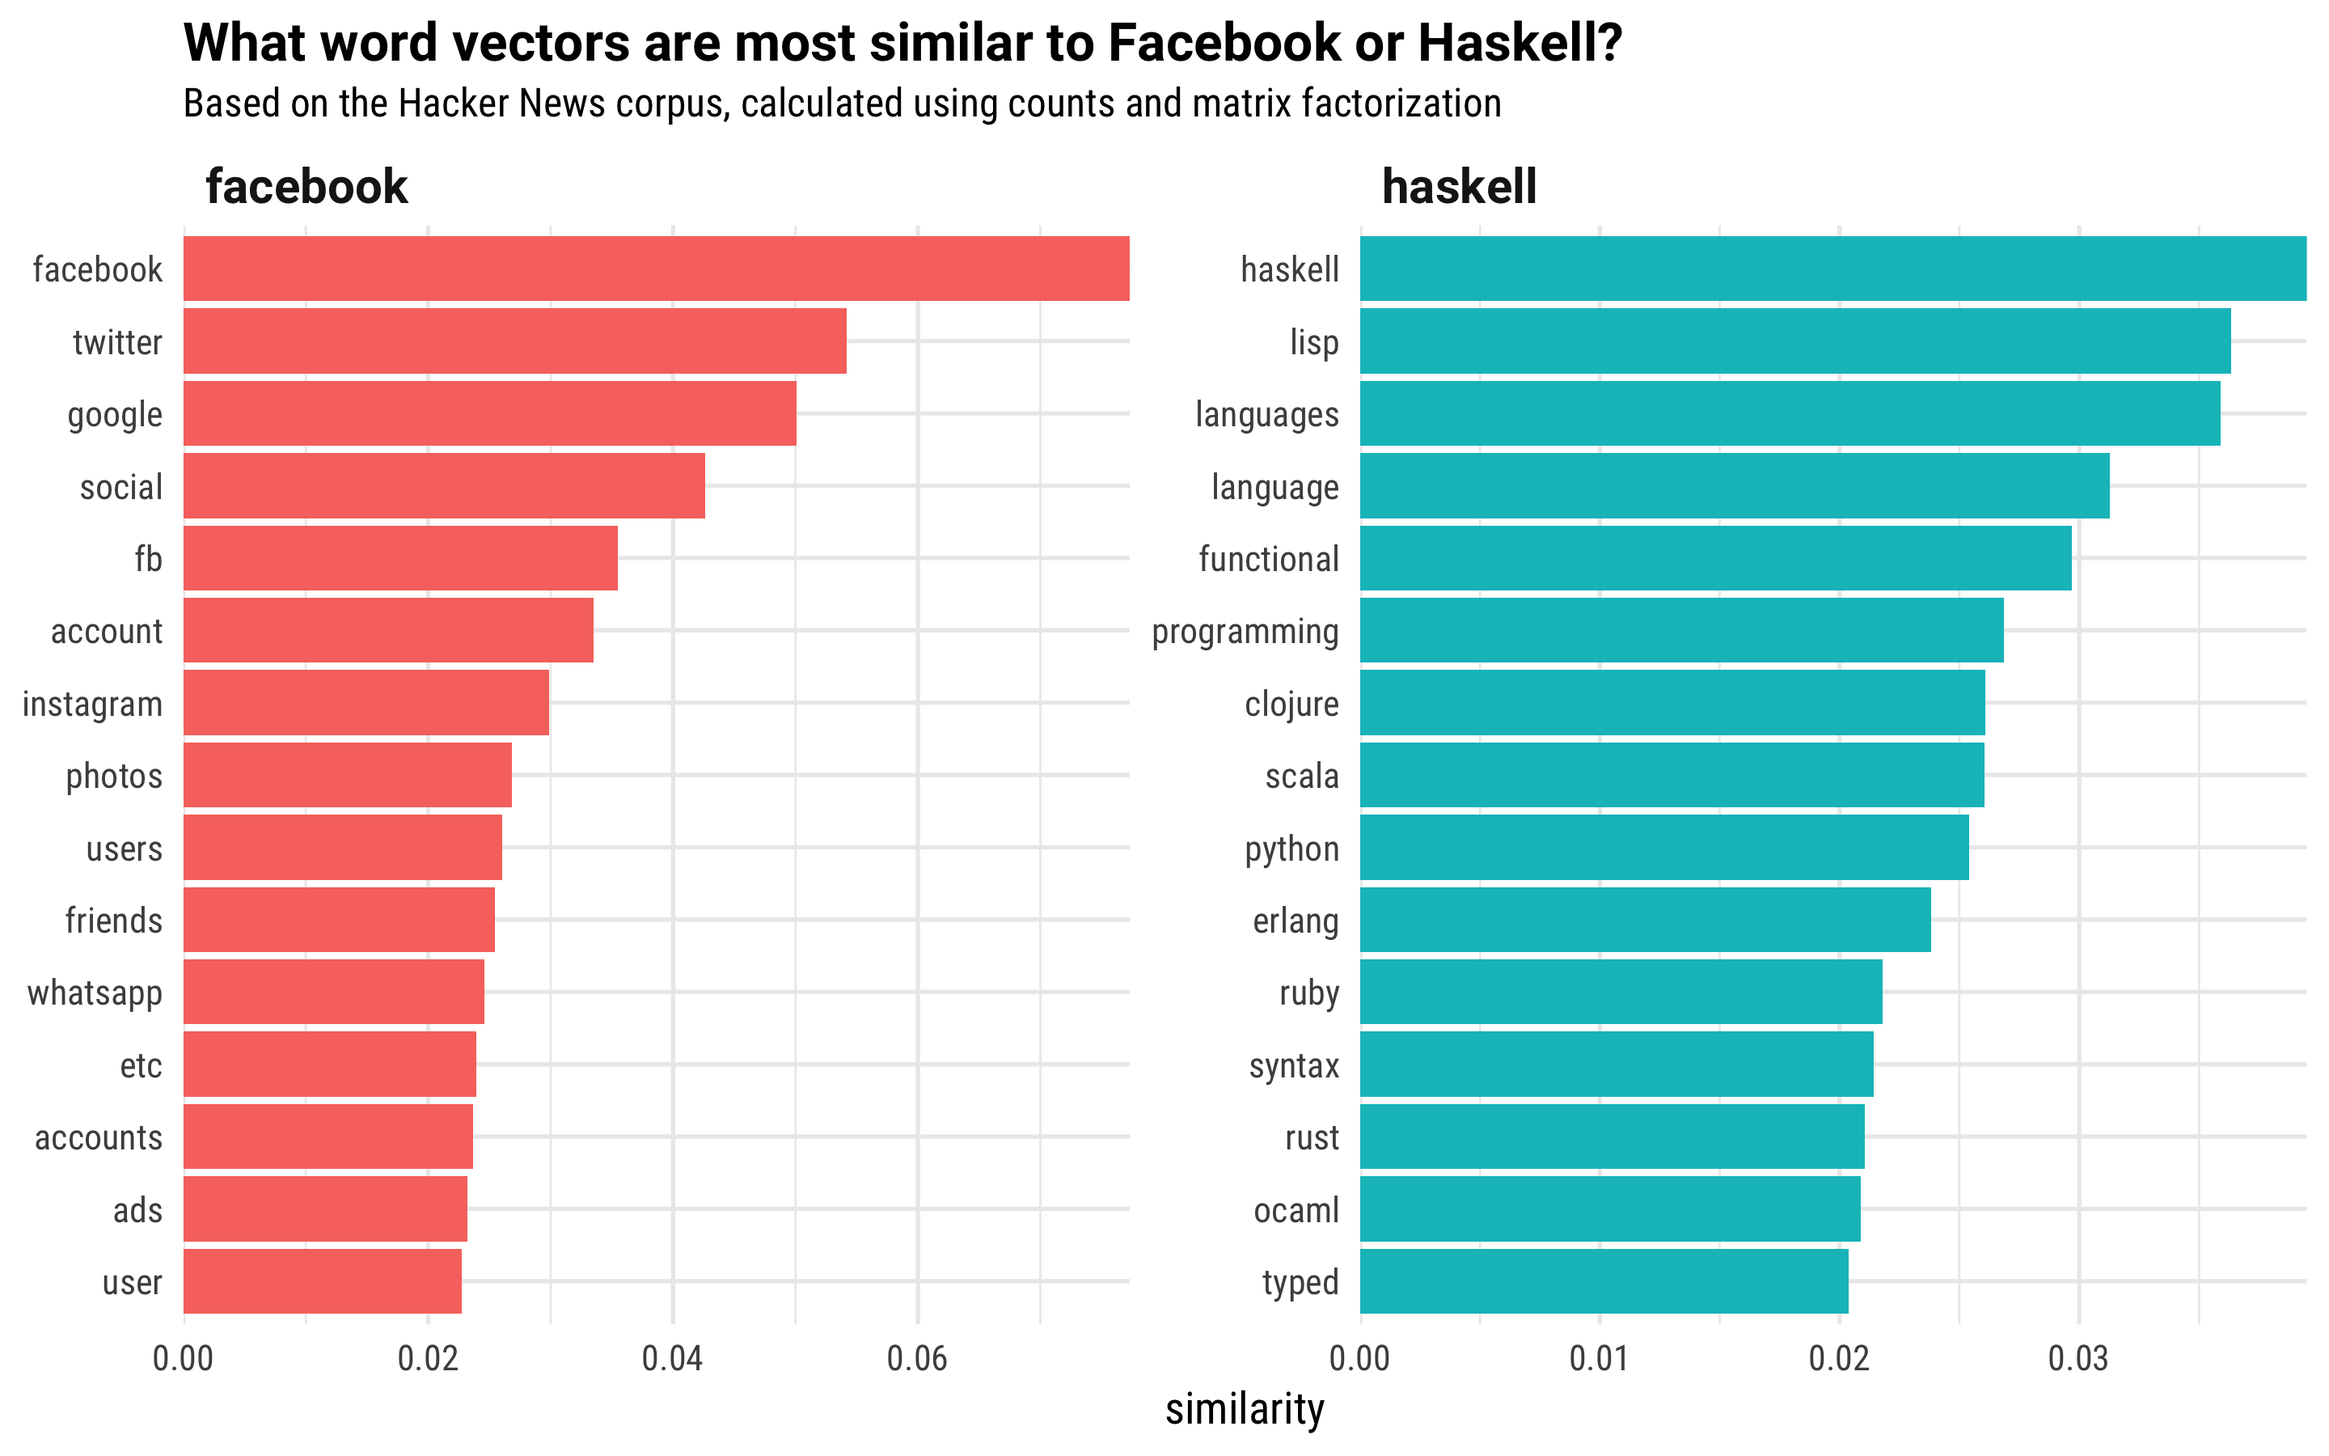
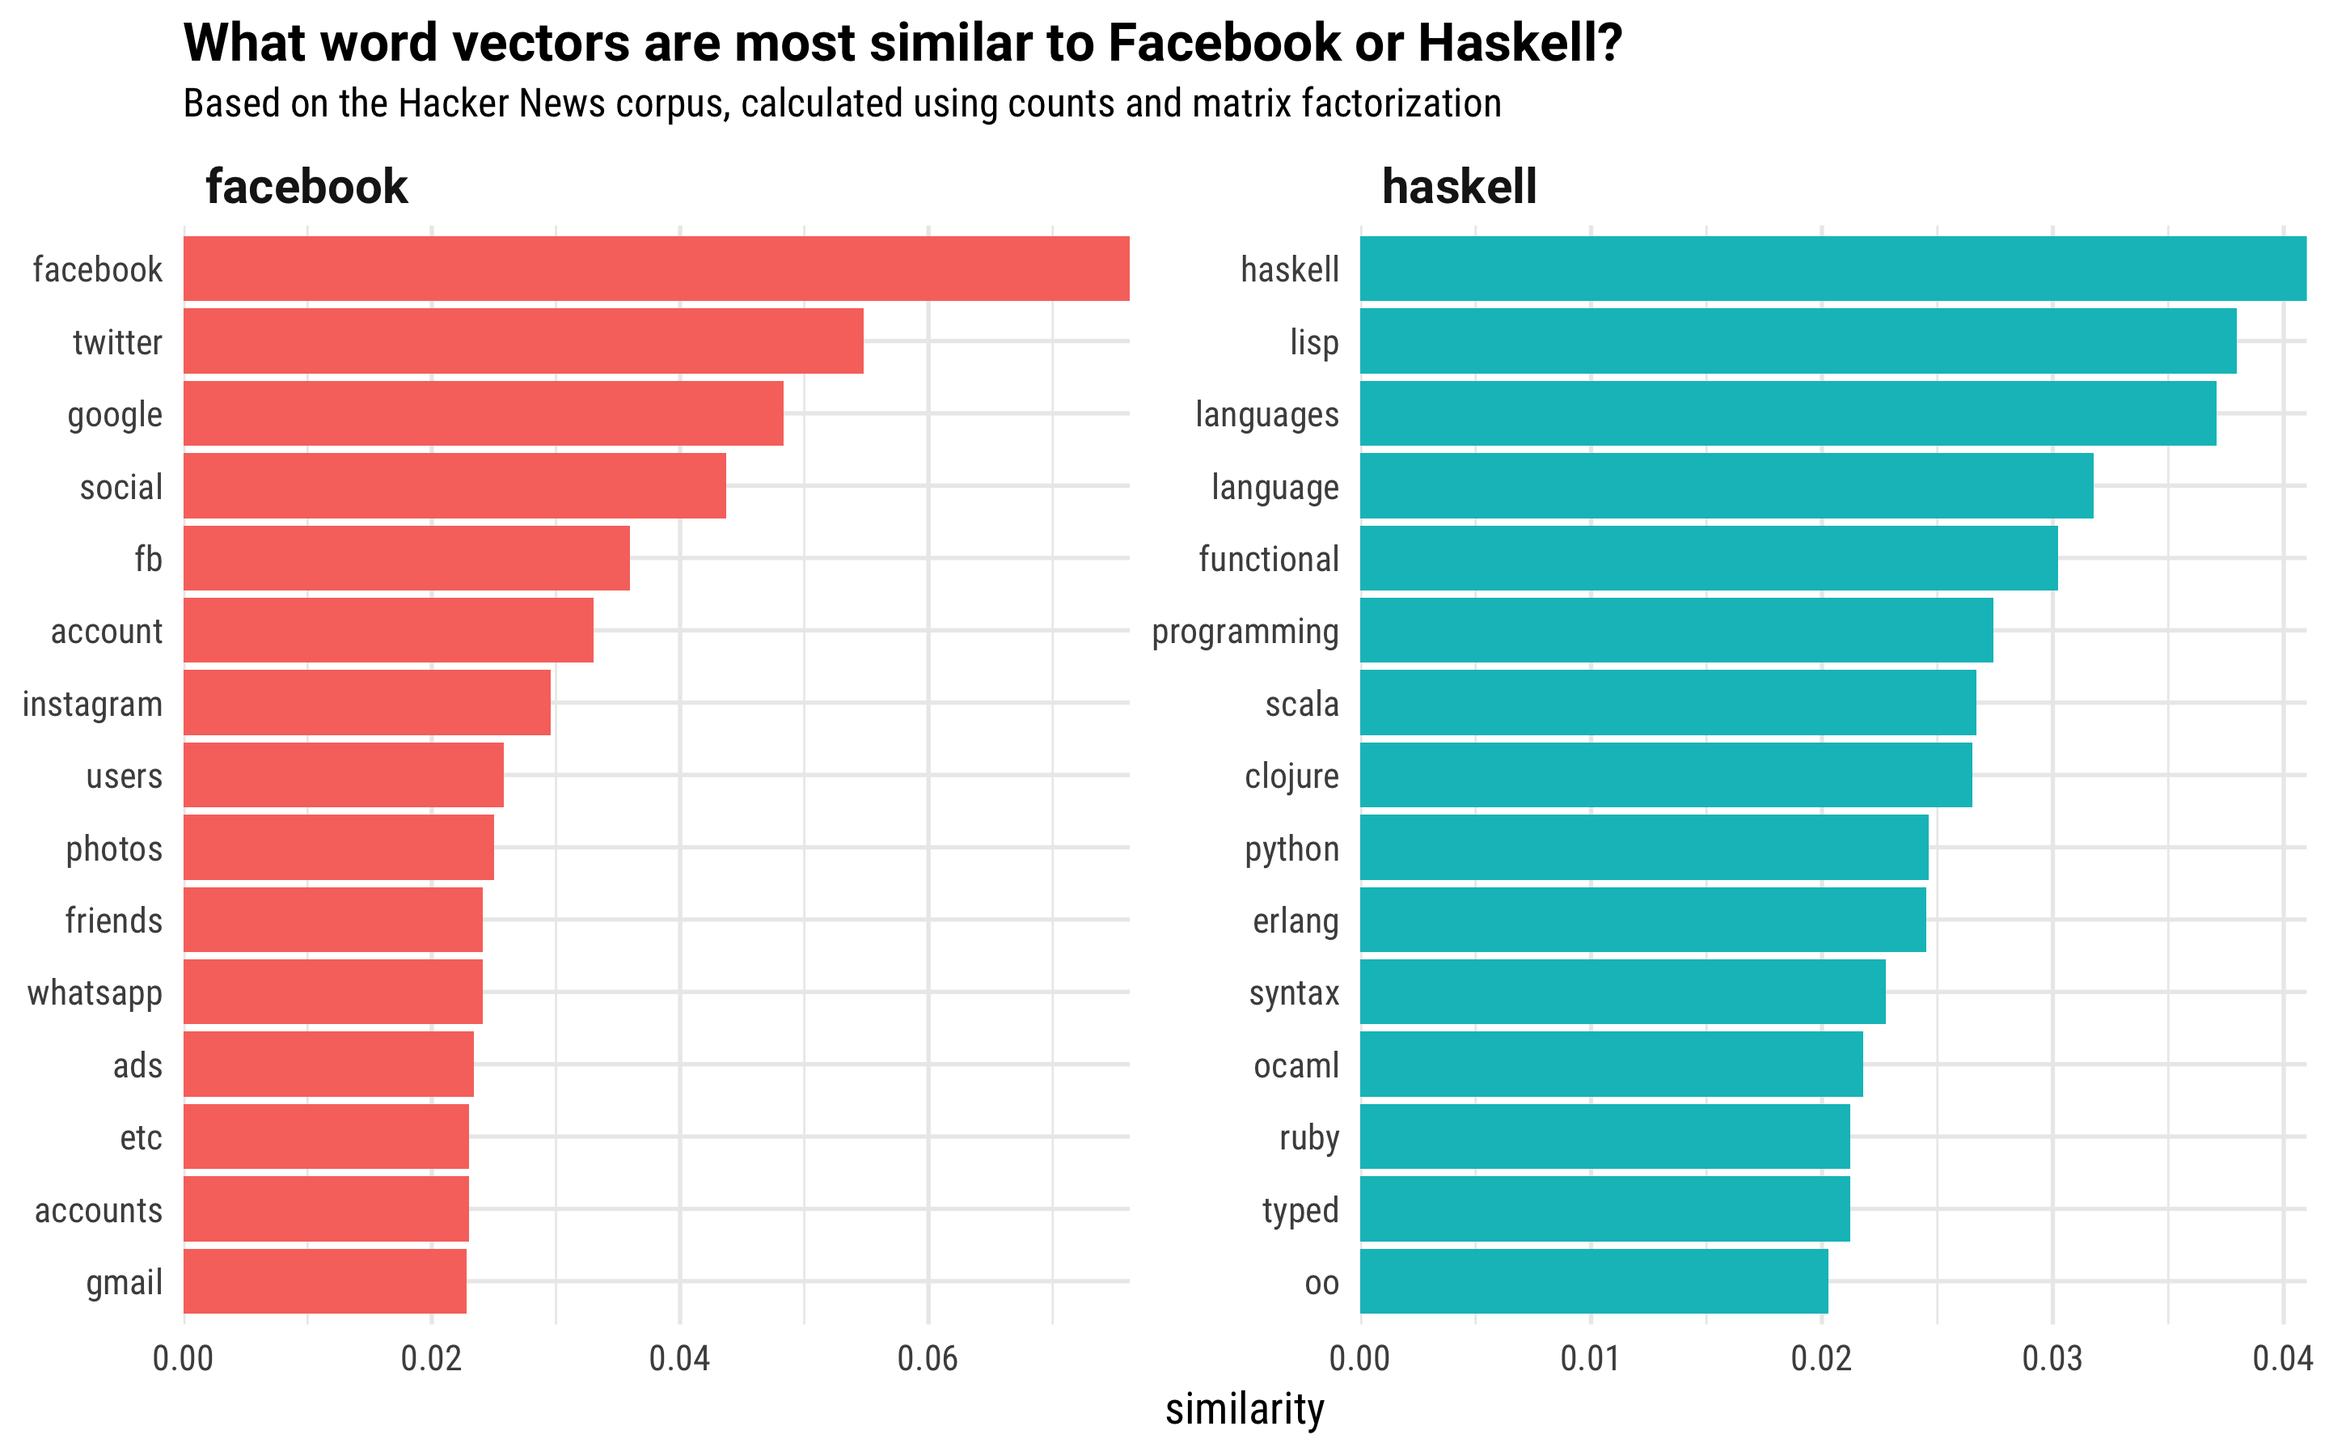
Typo in text cleaning -- oops!

diff --git a/content/blog/2017/2017-10-30-tidy-word-vectors.html b/content/blog/2017/2017-10-30-tidy-word-vectors.html
@@ -43,10 +43,11 @@ hacker_news_text &lt;- hacker_news_raw %&gt;%
     mutate(title = na_if(title, &quot;&quot;),
            text = coalesce(title, text)) %&gt;%
     select(-title) %&gt;%
-    mutate(text = str_replace_all(text, &quot;&amp;#x27;|&amp;quot;|&amp;#x2F;&quot;, &quot;&#39;&quot;),   ## weird encoding
-           text = str_replace_all(text, &quot;&lt;a(.*?)&gt;&quot;, &quot; &quot;),               ## links 
-           text = str_replace_all(text, &quot;&amp;gt;|&amp;lt;&quot;, &quot; &quot;),              ## html yuck
-           text = str_replace_all(text, &quot;&lt;[^&gt;]*&gt;&quot;, &quot; &quot;),                ## mmmmm, more html yuck
+    mutate(text = str_replace_all(text, &quot;&amp;quot;|&amp;#x2F;&quot;, &quot;&#39;&quot;),    ## hex encoding
+           text = str_replace_all(text, &quot;&amp;#x2F;&quot;, &quot;/&quot;),           ## more hex
+           text = str_replace_all(text, &quot;&lt;a(.*?)&gt;&quot;, &quot; &quot;),         ## links 
+           text = str_replace_all(text, &quot;&amp;gt;|&amp;lt;&quot;, &quot; &quot;),        ## html yuck
+           text = str_replace_all(text, &quot;&lt;[^&gt;]*&gt;&quot;, &quot; &quot;),          ## mmmmm, more html yuck
            postID = row_number())</code></pre>
 </div>
 <div id="unigram-probabilities" class="section level2">
@@ -60,20 +61,20 @@ unigram_probs &lt;- hacker_news_text %&gt;%
     mutate(p = n / sum(n))
 
 unigram_probs</code></pre>
-<pre><code>## # A tibble: 318,503 x 3
+<pre><code>## # A tibble: 314,615 x 3
 ##     word       n          p
 ##    &lt;chr&gt;   &lt;int&gt;      &lt;dbl&gt;
-##  1   the 1101045 0.04190098
-##  2    to  761658 0.02898539
-##  3     a  669067 0.02546178
-##  4    of  541937 0.02062376
-##  5   and  532592 0.02026813
-##  6    is  431841 0.01643399
-##  7  that  406506 0.01546985
-##  8     i  401545 0.01528105
-##  9    in  368045 0.01400619
-## 10    it  333441 0.01268931
-## # ... with 318,493 more rows</code></pre>
+##  1   the 1101051 0.04059959
+##  2    to  761660 0.02808506
+##  3     a  669142 0.02467360
+##  4    of  541939 0.01998318
+##  5   and  532594 0.01963860
+##  6     i  464917 0.01714311
+##  7   x27  437330 0.01612588
+##  8    is  431849 0.01592378
+##  9  that  429755 0.01584657
+## 10    it  402667 0.01484774
+## # ... with 314,605 more rows</code></pre>
 </div>
 <div id="skipgram-probabilities" class="section level2">
 <h2>Skipgram probabilities</h2>
@@ -89,7 +90,7 @@ tidy_skipgrams &lt;- hacker_news_text %&gt;%
     unnest_tokens(word, ngram)
 
 tidy_skipgrams</code></pre>
-<pre><code>## # A tibble: 183,434,296 x 2
+<pre><code>## # A tibble: 190,151,488 x 2
 ##    skipgramID   word
 ##         &lt;chr&gt;  &lt;chr&gt;
 ##  1        1_1      i
@@ -102,7 +103,7 @@ tidy_skipgrams</code></pre>
 ##  8        1_1   from
 ##  9        1_2    bet
 ## 10        1_2 taking
-## # ... with 183,434,286 more rows</code></pre>
+## # ... with 190,151,478 more rows</code></pre>
 <pre class="r"><code>skipgram_probs &lt;- tidy_skipgrams %&gt;%
     pairwise_count(word, skipgramID, diag = TRUE, sort = TRUE) %&gt;%
     mutate(p = n / sum(n))</code></pre>
@@ -124,38 +125,38 @@ tidy_skipgrams</code></pre>
 <pre class="r"><code>normalized_prob %&gt;% 
     filter(word1 == &quot;facebook&quot;) %&gt;%
     arrange(-p_together)</code></pre>
-<pre><code>## # A tibble: 1,746 x 7
-##       word1        word2     n            p           p1           p2 p_together
-##       &lt;chr&gt;        &lt;chr&gt; &lt;dbl&gt;        &lt;dbl&gt;        &lt;dbl&gt;        &lt;dbl&gt;      &lt;dbl&gt;
-##  1 facebook     facebook 52883 3.757919e-05 0.0003340144 3.340144e-04  336.83488
-##  2 facebook    messenger   348 2.472923e-07 0.0003340144 1.122642e-05   65.94840
-##  3 facebook   zuckerburg    23 1.634403e-08 0.0003340144 8.752799e-07   55.90454
-##  4 facebook     statuses    40 2.842440e-08 0.0003340144 1.522226e-06   55.90454
-##  5 facebook      myspace   330 2.345013e-07 0.0003340144 1.331948e-05   52.70999
-##  6 facebook     newsfeed    32 2.273952e-08 0.0003340144 1.370003e-06   49.69292
-##  7 facebook       hiphop    29 2.060769e-08 0.0003340144 1.484170e-06   41.57004
-##  8 facebook mashable.com    24 1.705464e-08 0.0003340144 1.293892e-06   39.46203
-##  9 facebook   friendster    30 2.131830e-08 0.0003340144 1.636393e-06   39.00317
-## 10 facebook        gtalk    22 1.563342e-08 0.0003340144 1.217781e-06   38.43437
-## # ... with 1,736 more rows</code></pre>
+<pre><code>## # A tibble: 1,767 x 7
+##       word1            word2     n            p           p1           p2 p_together
+##       &lt;chr&gt;            &lt;chr&gt; &lt;dbl&gt;        &lt;dbl&gt;        &lt;dbl&gt;        &lt;dbl&gt;      &lt;dbl&gt;
+##  1 facebook         facebook 54505 3.737944e-05 0.0003310502 3.310502e-04  341.07126
+##  2 facebook        messenger   364 2.496306e-07 0.0003310502 1.098830e-05   68.62360
+##  3 facebook         statuses    40 2.743194e-08 0.0003310502 1.474940e-06   56.18086
+##  4 facebook       zuckerburg    23 1.577336e-08 0.0003310502 8.480903e-07   56.18086
+##  5 facebook          myspace   327 2.242561e-07 0.0003310502 1.290572e-05   52.48898
+##  6 facebook         newsfeed    32 2.194555e-08 0.0003310502 1.327446e-06   49.93854
+##  7 facebook           hiphop    29 1.988815e-08 0.0003310502 1.438066e-06   41.77551
+##  8 facebook     mashable.com    25 1.714496e-08 0.0003310502 1.253699e-06   41.30946
+##  9 facebook            gtalk    22 1.508757e-08 0.0003310502 1.216825e-06   37.45391
+## 10 facebook www.facebook.com    47 3.223253e-08 0.0003310502 2.765512e-06   35.20667
+## # ... with 1,757 more rows</code></pre>
 <p>What about the programming language Scala?</p>
 <pre class="r"><code>normalized_prob %&gt;% 
     filter(word1 == &quot;scala&quot;) %&gt;%
     arrange(-p_together)</code></pre>
-<pre><code>## # A tibble: 445 x 7
+<pre><code>## # A tibble: 453 x 7
 ##    word1        word2     n            p           p1           p2 p_together
 ##    &lt;chr&gt;        &lt;chr&gt; &lt;dbl&gt;        &lt;dbl&gt;        &lt;dbl&gt;        &lt;dbl&gt;      &lt;dbl&gt;
-##  1 scala        scala  9159 6.508478e-06 5.449568e-05 5.449568e-05 2191.56919
-##  2 scala      odersky    47 3.339867e-08 5.449568e-05 1.103614e-06  555.32856
-##  3 scala         akka    74 5.258514e-08 5.449568e-05 3.006396e-06  320.96285
-##  4 scala          sbt    31 2.202891e-08 5.449568e-05 1.446115e-06  279.52988
-##  5 scala       groovy    88 6.253369e-08 5.449568e-05 5.594180e-06  205.12353
-##  6 scala           mu    23 1.634403e-08 5.449568e-05 1.826671e-06  164.18624
-##  7 scala       kotlin    92 6.537613e-08 5.449568e-05 7.382795e-06  162.49359
-##  8 scala      clojure   472 3.354080e-07 5.449568e-05 5.719764e-05  107.60518
-##  9 scala constructors    23 1.634403e-08 5.449568e-05 2.816118e-06  106.49918
-## 10 scala    idiomatic    54 3.837294e-08 5.449568e-05 7.573073e-06   92.98028
-## # ... with 435 more rows</code></pre>
+##  1 scala        scala  9418 6.458850e-06 5.394592e-05 5.394592e-05 2219.41246
+##  2 scala      odersky    54 3.703312e-08 5.394592e-05 1.216825e-06  564.16154
+##  3 scala          sbt    36 2.468874e-08 5.394592e-05 1.401193e-06  326.61984
+##  4 scala         akka    74 5.074908e-08 5.394592e-05 2.913006e-06  322.94479
+##  5 scala       groovy    88 6.035026e-08 5.394592e-05 5.494150e-06  203.61983
+##  6 scala           mu    23 1.577336e-08 5.394592e-05 1.769928e-06  165.20008
+##  7 scala       kotlin    88 6.035026e-08 5.394592e-05 7.448445e-06  150.19482
+##  8 scala constructors    23 1.577336e-08 5.394592e-05 2.728638e-06  107.15681
+##  9 scala      clojure   475 3.257543e-07 5.394592e-05 5.678518e-05  106.33997
+## 10 scala    idiomatic    53 3.634732e-08 5.394592e-05 7.337825e-06   91.82194
+## # ... with 443 more rows</code></pre>
 <p>Looks good!</p>
 </div>
 <div id="cast-to-a-sparse-matrix" class="section level2">
@@ -198,36 +199,36 @@ search_synonyms &lt;- function(word_vectors, selected_vector) {
 
 facebook &lt;- search_synonyms(word_vectors, word_vectors[&quot;facebook&quot;,])
 facebook</code></pre>
-<pre><code>## # A tibble: 69,411 x 2
+<pre><code>## # A tibble: 68,664 x 2
 ##        token similarity
 ##        &lt;chr&gt;      &lt;dbl&gt;
-##  1  facebook 0.07732632
-##  2   twitter 0.05418014
-##  3    google 0.05011162
-##  4    social 0.04259758
-##  5        fb 0.03549460
-##  6   account 0.03347402
-##  7 instagram 0.02990053
-##  8    photos 0.02680315
-##  9     users 0.02601248
-## 10   friends 0.02547189
-## # ... with 69,401 more rows</code></pre>
+##  1  facebook 0.07622816
+##  2   twitter 0.05477529
+##  3    google 0.04833987
+##  4    social 0.04367801
+##  5        fb 0.03597795
+##  6   account 0.03304327
+##  7 instagram 0.02955428
+##  8     users 0.02581671
+##  9    photos 0.02502522
+## 10   friends 0.02412458
+## # ... with 68,654 more rows</code></pre>
 <pre class="r"><code>haskell &lt;- search_synonyms(word_vectors, word_vectors[&quot;haskell&quot;,])
 haskell</code></pre>
-<pre><code>## # A tibble: 69,411 x 2
+<pre><code>## # A tibble: 68,664 x 2
 ##          token similarity
 ##          &lt;chr&gt;      &lt;dbl&gt;
-##  1     haskell 0.03949794
-##  2        lisp 0.03634116
-##  3   languages 0.03591368
-##  4    language 0.03128933
-##  5  functional 0.02969273
-##  6 programming 0.02685119
-##  7     clojure 0.02609575
-##  8       scala 0.02604054
-##  9      python 0.02541462
-## 10      erlang 0.02382765
-## # ... with 69,401 more rows</code></pre>
+##  1     haskell 0.04100067
+##  2        lisp 0.03796378
+##  3   languages 0.03710574
+##  4    language 0.03176253
+##  5  functional 0.03022514
+##  6 programming 0.02743172
+##  7       scala 0.02667198
+##  8     clojure 0.02652761
+##  9      python 0.02462822
+## 10      erlang 0.02452040
+## # ... with 68,654 more rows</code></pre>
 <p>That’s… pretty darn amazing. Let’s visualize the most similar words vector to Facebook and Haskell from this dataset of Hacker News posts.</p>
 <pre class="r"><code>facebook %&gt;%
     mutate(selected = &quot;facebook&quot;) %&gt;%
@@ -250,56 +251,56 @@ haskell</code></pre>
 <p>If the iPhone is an important product associated with Apple, as discussed on Hacker News, what is an important product associated with Microsoft?</p>
 <pre class="r"><code>mystery_product &lt;- word_vectors[&quot;iphone&quot;,] - word_vectors[&quot;apple&quot;,] + word_vectors[&quot;microsoft&quot;,]
 search_synonyms(word_vectors, mystery_product)</code></pre>
-<pre><code>## # A tibble: 69,411 x 2
+<pre><code>## # A tibble: 68,664 x 2
 ##        token similarity
 ##        &lt;chr&gt;      &lt;dbl&gt;
-##  1   windows 0.03847298
-##  2     phone 0.02785154
-##  3    iphone 0.02642861
-##  4    mobile 0.02564263
-##  5   android 0.02475795
-##  6       ios 0.02233122
-##  7 microsoft 0.02095453
-##  8         7 0.02093067
-##  9         t 0.02085600
-## 10         8 0.02061549
-## # ... with 69,401 more rows</code></pre>
+##  1   windows 0.03861497
+##  2     phone 0.02818951
+##  3    iphone 0.02444977
+##  4    mobile 0.02427238
+##  5   android 0.02321326
+##  6 microsoft 0.02233597
+##  7       ios 0.02138345
+##  8    office 0.02000720
+##  9         7 0.01997405
+## 10         8 0.01970687
+## # ... with 68,654 more rows</code></pre>
 <p>We even see some mobile phone and Android terms in this list, below Windows.</p>
 <p>What about an important product associated with Google?</p>
 <pre class="r"><code>mystery_product &lt;- word_vectors[&quot;iphone&quot;,] - word_vectors[&quot;apple&quot;,] + word_vectors[&quot;google&quot;,]
 search_synonyms(word_vectors, mystery_product)</code></pre>
-<pre><code>## # A tibble: 69,411 x 2
+<pre><code>## # A tibble: 68,664 x 2
 ##       token similarity
 ##       &lt;chr&gt;      &lt;dbl&gt;
-##  1   google 0.10097056
-##  2   search 0.06054602
-##  3      app 0.04070347
-##  4    phone 0.03854913
-##  5   engine 0.03560017
-##  6 facebook 0.03447097
-##  7  android 0.03273318
-##  8   chrome 0.03020063
-##  9   iphone 0.02991398
-## 10    gmail 0.02895055
-## # ... with 69,401 more rows</code></pre>
-<p>Google itself is at the top of the list, which is something that often happens to me when I try this word vector arithmetic no matter how I train them (usually one of the positive vectors in the “equation”). Does anyone know what that means? Anyway, “search”, “app”, “phone” and “engine” are next on the list.</p>
+##  1   google 0.10194467
+##  2   search 0.05937512
+##  3    phone 0.03947618
+##  4      app 0.03716764
+##  5   engine 0.03590006
+##  6 facebook 0.03513982
+##  7  android 0.03289141
+##  8        q 0.02998453
+##  9    gmail 0.02980005
+## 10    using 0.02944208
+## # ... with 68,654 more rows</code></pre>
+<p>Google itself is at the top of the list, which is something that often happens to me when I try this word vector arithmetic no matter how I train them (usually one of the positive vectors in the “equation”). Does anyone know what that means? Anyway, “search”, is next on the list.</p>
 <pre class="r"><code>mystery_product &lt;- word_vectors[&quot;iphone&quot;,] - word_vectors[&quot;apple&quot;,] + word_vectors[&quot;amazon&quot;,]
 search_synonyms(word_vectors, mystery_product)</code></pre>
-<pre><code>## # A tibble: 69,411 x 2
+<pre><code>## # A tibble: 68,664 x 2
 ##      token similarity
 ##      &lt;chr&gt;      &lt;dbl&gt;
-##  1  amazon 0.04648808
-##  2     aws 0.04216195
-##  3      s3 0.03398973
-##  4   cloud 0.03201470
-##  5     ec2 0.03157737
-##  6    book 0.02970601
-##  7  iphone 0.02736457
-##  8   books 0.02597030
-##  9 storage 0.02410764
-## 10     app 0.02395586
-## # ... with 69,401 more rows</code></pre>
-<p>For Amazon, we get AWS, S3, cloud, and EC2. Nice!</p>
+##  1  amazon 0.04757609
+##  2     aws 0.04389115
+##  3      s3 0.03356846
+##  4    book 0.03273032
+##  5     ec2 0.03151250
+##  6   cloud 0.03083856
+##  7   books 0.03008677
+##  8  iphone 0.02749843
+##  9 storage 0.02549876
+## 10  kindle 0.02505824
+## # ... with 68,654 more rows</code></pre>
+<p>For Amazon, we get AWS, S3, and EC2, as well as book. Nice!</p>
 </div>
 <div id="the-end" class="section level2">
 <h2>The End</h2>
